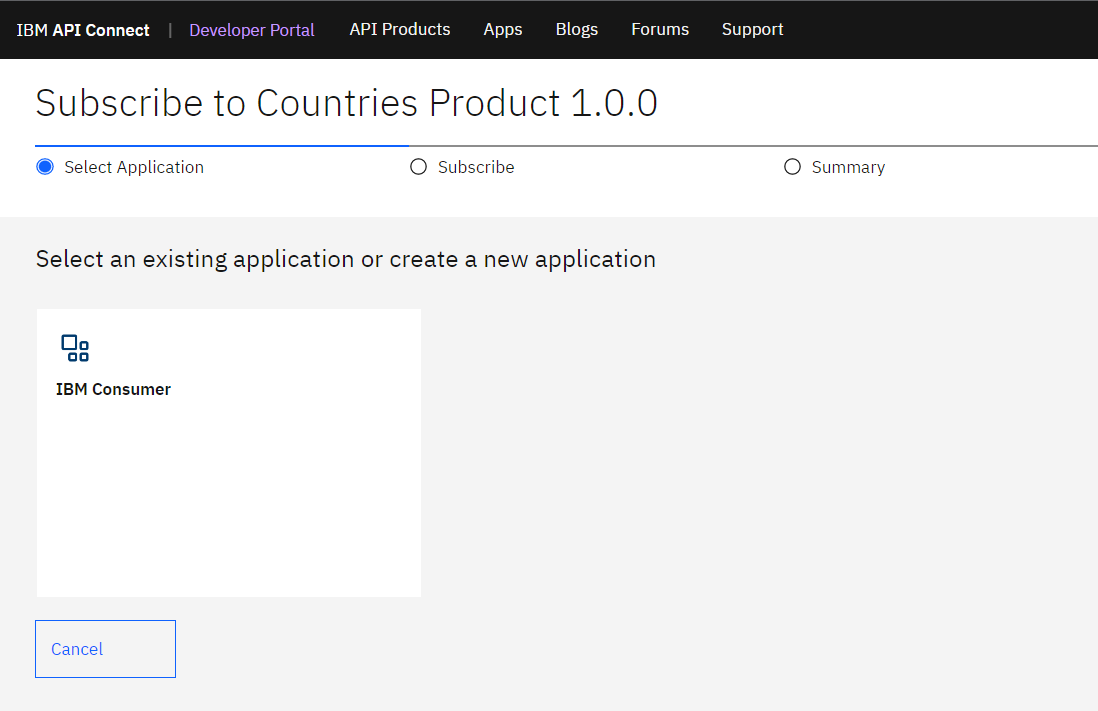
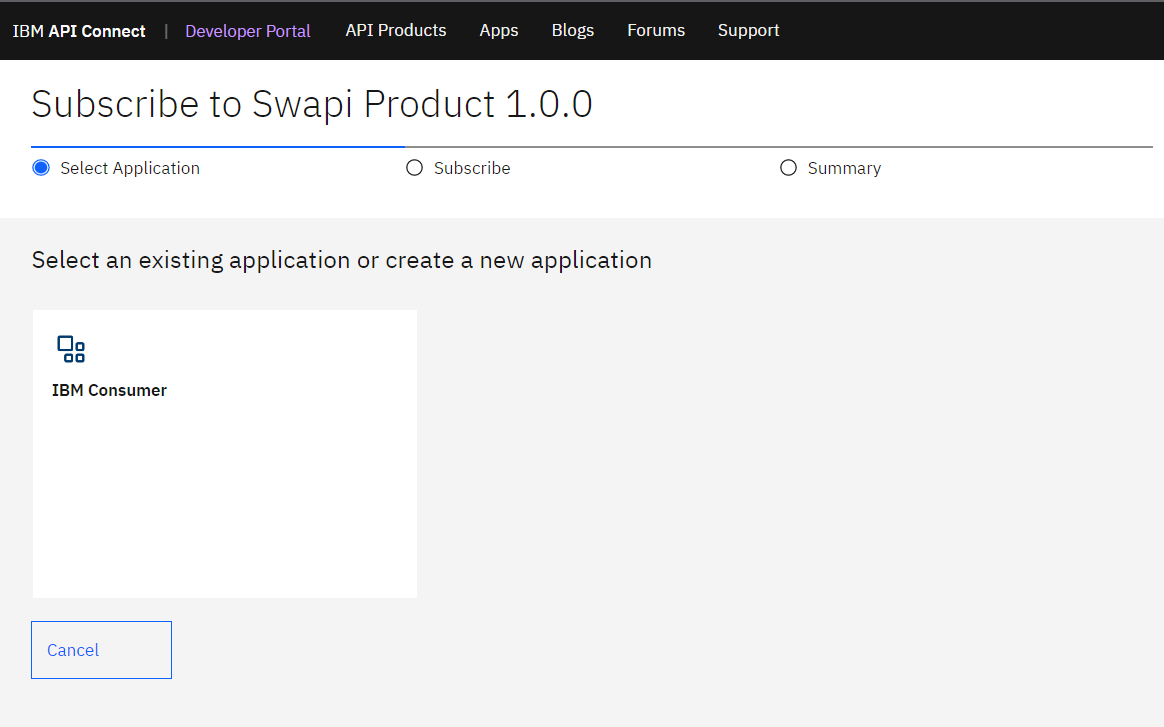
updated lab 8 for swapi

diff --git a/instructions/Lab8/index.md b/instructions/Lab8/index.md
@@ -307,13 +307,13 @@ query Query {
 =============================================================================================
 
 1.  Sign in to API Connect Developer Portal using the Developer Portal
-    URL, username and password provided by the instructor.
+    URL, username and password.
 
     ![](images/tutorial_html_540cbe0b9202f4a7.png)
 
     ![](images/tutorial_html_c34973eb377015ce.png)
 
-2.  Developer Portal displays all the products that are currently
+2.  Go to API Prpducts in top menu. Developer Portal displays all the products that are currently
     published. Locate swapi-product and select the product.
 
     ![](images/tutorial_html_2635d049f12d59c6.png)
